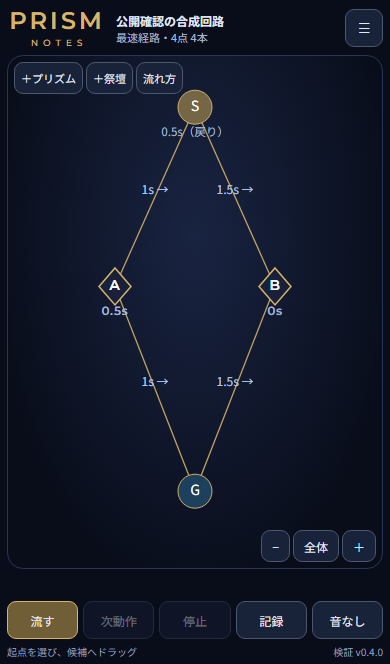
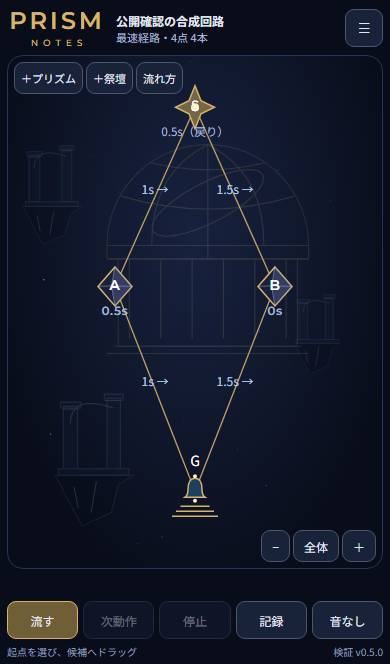
Correct asynchronous readiness verification and record public v0.5 evidence

diff --git a/tests/browser-wait.test.js b/tests/browser-wait.test.js
@@ -1,0 +1,25 @@
+import test from 'node:test';
+import assert from 'node:assert/strict';
+import { waitForAsync } from '../設計検証/browser_wait.cjs';
+
+test('ブラウザ準備の非同期結果がfalseなら完了とせず、trueまで確認する',async()=>{
+  let checks=0,waits=0;
+  const page={evaluate:async()=>Promise.resolve(++checks>=3),waitForTimeout:async()=>{waits++;}};
+  assert.equal(await waitForAsync(page,()=>{},null),true);
+  assert.equal(checks,3);assert.equal(waits,2);
+});
+
+test('ブラウザ準備が非同期でfalseを返し続けたら、期限切れで不合格にする',async()=>{
+  const page={evaluate:async()=>Promise.resolve(false),waitForTimeout:async()=>{throw new Error('Should expire before waiting');}};
+  await assert.rejects(waitForAsync(page,()=>{},null,{timeout:0}),/did not become ready/);
+});
+
+test('準備のPromise自体が解決しない場合も、待機期限で不合格にする',async()=>{
+  const page={evaluate:()=>new Promise(()=>{}),waitForTimeout:async()=>{}};
+  await assert.rejects(waitForAsync(page,()=>{},null,{timeout:15}),/did not become ready/);
+});
+
+test('評価中に期限を超えてtrueとなっても、遅い完了を合格としない',async()=>{
+  const page={evaluate:async()=>{const until=performance.now()+15;while(performance.now()<until){/* Synthetic blocking evaluation. */}return true;},waitForTimeout:async()=>{}};
+  await assert.rejects(waitForAsync(page,()=>{},null,{timeout:1}),/did not become ready/);
+});

diff --git a/README.md b/README.md
@@ -2,7 +2,7 @@
 
 ## 現在の実装（2026-10-13）
 
-発案者の指示により、設計資料に基づく実装と、このGitHubプロジェクトリポジトリへの反映・デプロイを確認不要で進める段階へ移った。[公開URL](https://gerupon-lgtm.github.io/prism/)では、共通計算・保存と実際の結線・設定・再生・記録・課題・案内に、オフラインの資材準備・明示更新・資材消失時の復旧表示を接続した。実装作業版0.5.0では、夜空の遺跡／天文台、案内時だけの人型精霊、時計に加算しない粒別星座、実測による負荷停止を接続。自動テスト63件、PCブラウザの表示・操作70件、世界観・負荷22件、オフライン・更新保護16件を確認。公開確認の版・コミット・結果は[実装状況](docs/implementation-status.md)の「公開の確認」を参照。`npm.cmd run dev`で起動、`npm.cmd run build`で版付きの配信資材を生成する。全26機能・非機能8項目を維持し、利用者の判断が必要な変更に限って確認する。全対象実機・音の聴感と実出力・実際の負荷の受入確認は残っており、初期版完成とは扱わない。
+発案者の指示により、設計資料に基づく実装と、このGitHubプロジェクトリポジトリへの反映・デプロイを確認不要で進める段階へ移った。[公開URL](https://gerupon-lgtm.github.io/prism/)では、共通計算・保存と実際の結線・設定・再生・記録・課題・案内に、オフラインの資材準備・明示更新・資材消失時の復旧表示を接続した。実装作業版0.5.0では、夜空の遺跡／天文台、案内時だけの人型精霊、時計に加算しない粒別星座、実測による負荷停止を接続。自動テスト67件、PCブラウザの表示・操作70件、世界観・負荷22件、オフライン・更新保護16件を確認。公開確認の版・コミット・結果は[実装状況](docs/implementation-status.md)の「公開の確認」を参照。`npm.cmd run dev`で起動、`npm.cmd run build`で版付きの配信資材を生成する。全26機能・非機能8項目を維持し、利用者の判断が必要な変更に限って確認する。全対象実機・音の聴感と実出力・実際の負荷の受入確認は残っており、初期版完成とは扱わない。
 
 以下の実装・公開「未指示」という記載は設計時点の記録。最新の作業許可をこの冒頭とAGENTS.mdで確認する。共通コードの合格をゲーム画面・音・PWA・実機・公開の成功と混同しない。
 

diff --git a/docs/reviews/2026-10-13-world-load.md b/docs/reviews/2026-10-13-world-load.md
@@ -27,3 +27,9 @@
 Windows用WebKitの検証エンジンはAudioContext・webkitAudioContextを提供しないことを実際のページで確認した。音を開始できない旨の表示と、実験を続行できることは確認するが、WebKitの発音の合格として数えない。macOS Safari・iPhone/iPad Safariの音は引き続き検証対象。Chromiumは3到着に対する9個の音の構成要素の生成を確認する。聴感・実出力の負荷は未確認。
 
 最新の件数・実測値・不足は設計検証/世界観と負荷/report.jsonに記録する。全26機能・非機能8項目・全対象実機を維持し、初期版全体の完成とは扱わない。
+
+## 公開確認での検証コード修正
+
+公開0.5.0の初回確認で有効なWorkerがない状態を観測した。実際に使うPlaywrightのwaitForFunctionExpressionの実装では、非同期述語のPromiseを真と判定して待機を終えていた。検証コード側のpreparedが返す解決値falseも準備完了として扱われていたことを確認した。キャッシュ削除によるWorker破損やアプリの失敗とは断定しない。
+
+PWA・公開の検証で共通のbrowser_wait.cjsを使い、非同期の結果を毎回待ち、準備がtrueになるまで再確認するよう修正した。規約軸の追加点検で、未解決のPromiseや期限後の成功が待機期限を守らない指摘も修正。評価自体の期限と結果後の期限を両方確認し、4件の回帰テストを合格した。仕様側と規約側で再点検し、修正後のPWA16件・公開37件を再実行した。失敗の途中証拠も不合格として保持した。アプリ本体は797cf87の公開資材を維持し、検証・資料のみを後続コミットへ記録する。

diff --git a/AGENTS.md b/AGENTS.md
@@ -35,7 +35,7 @@
 
 現在の証拠と未完成の範囲はdocs/implementation-status.mdを参照。計算・保存はsrc/core/、操作状態はsrc/app/、本アプリ画面はsrc/ui/とルートindex.html、テストはtests/。外部パッケージ不要のJavaScript ESモジュールで着手しており、基本設計時のTypeScriptは【想定】からの実装選択として記録する。
 
-- `npm.cmd test`：並列度1の計算・保存・操作状態・更新保護・負荷測定テスト。最大5ファイルずつ、現在10ファイル。ファイルが増えた場合はWindowsの資源を考慮して小分けに実行する。
+- `npm.cmd test`：並列度1の計算・保存・操作状態・更新保護・負荷測定テスト。最大5ファイルずつ、現在11ファイル。ファイルが増えた場合はWindowsの資源を考慮して小分けに実行する。
 - `npm.cmd run check`：構文検査。
 - `npm.cmd run dev`：本アプリのローカルサーバー（http://127.0.0.1:4173）。
 - `npm.cmd run build`：dist/へ版付きの配信資材を生成。下位のモジュールとフォントも同じ版のディレクトリへ置き、古い資材の混在を避ける。表示版・package.json・index.htmlの更新値を合わせる。
